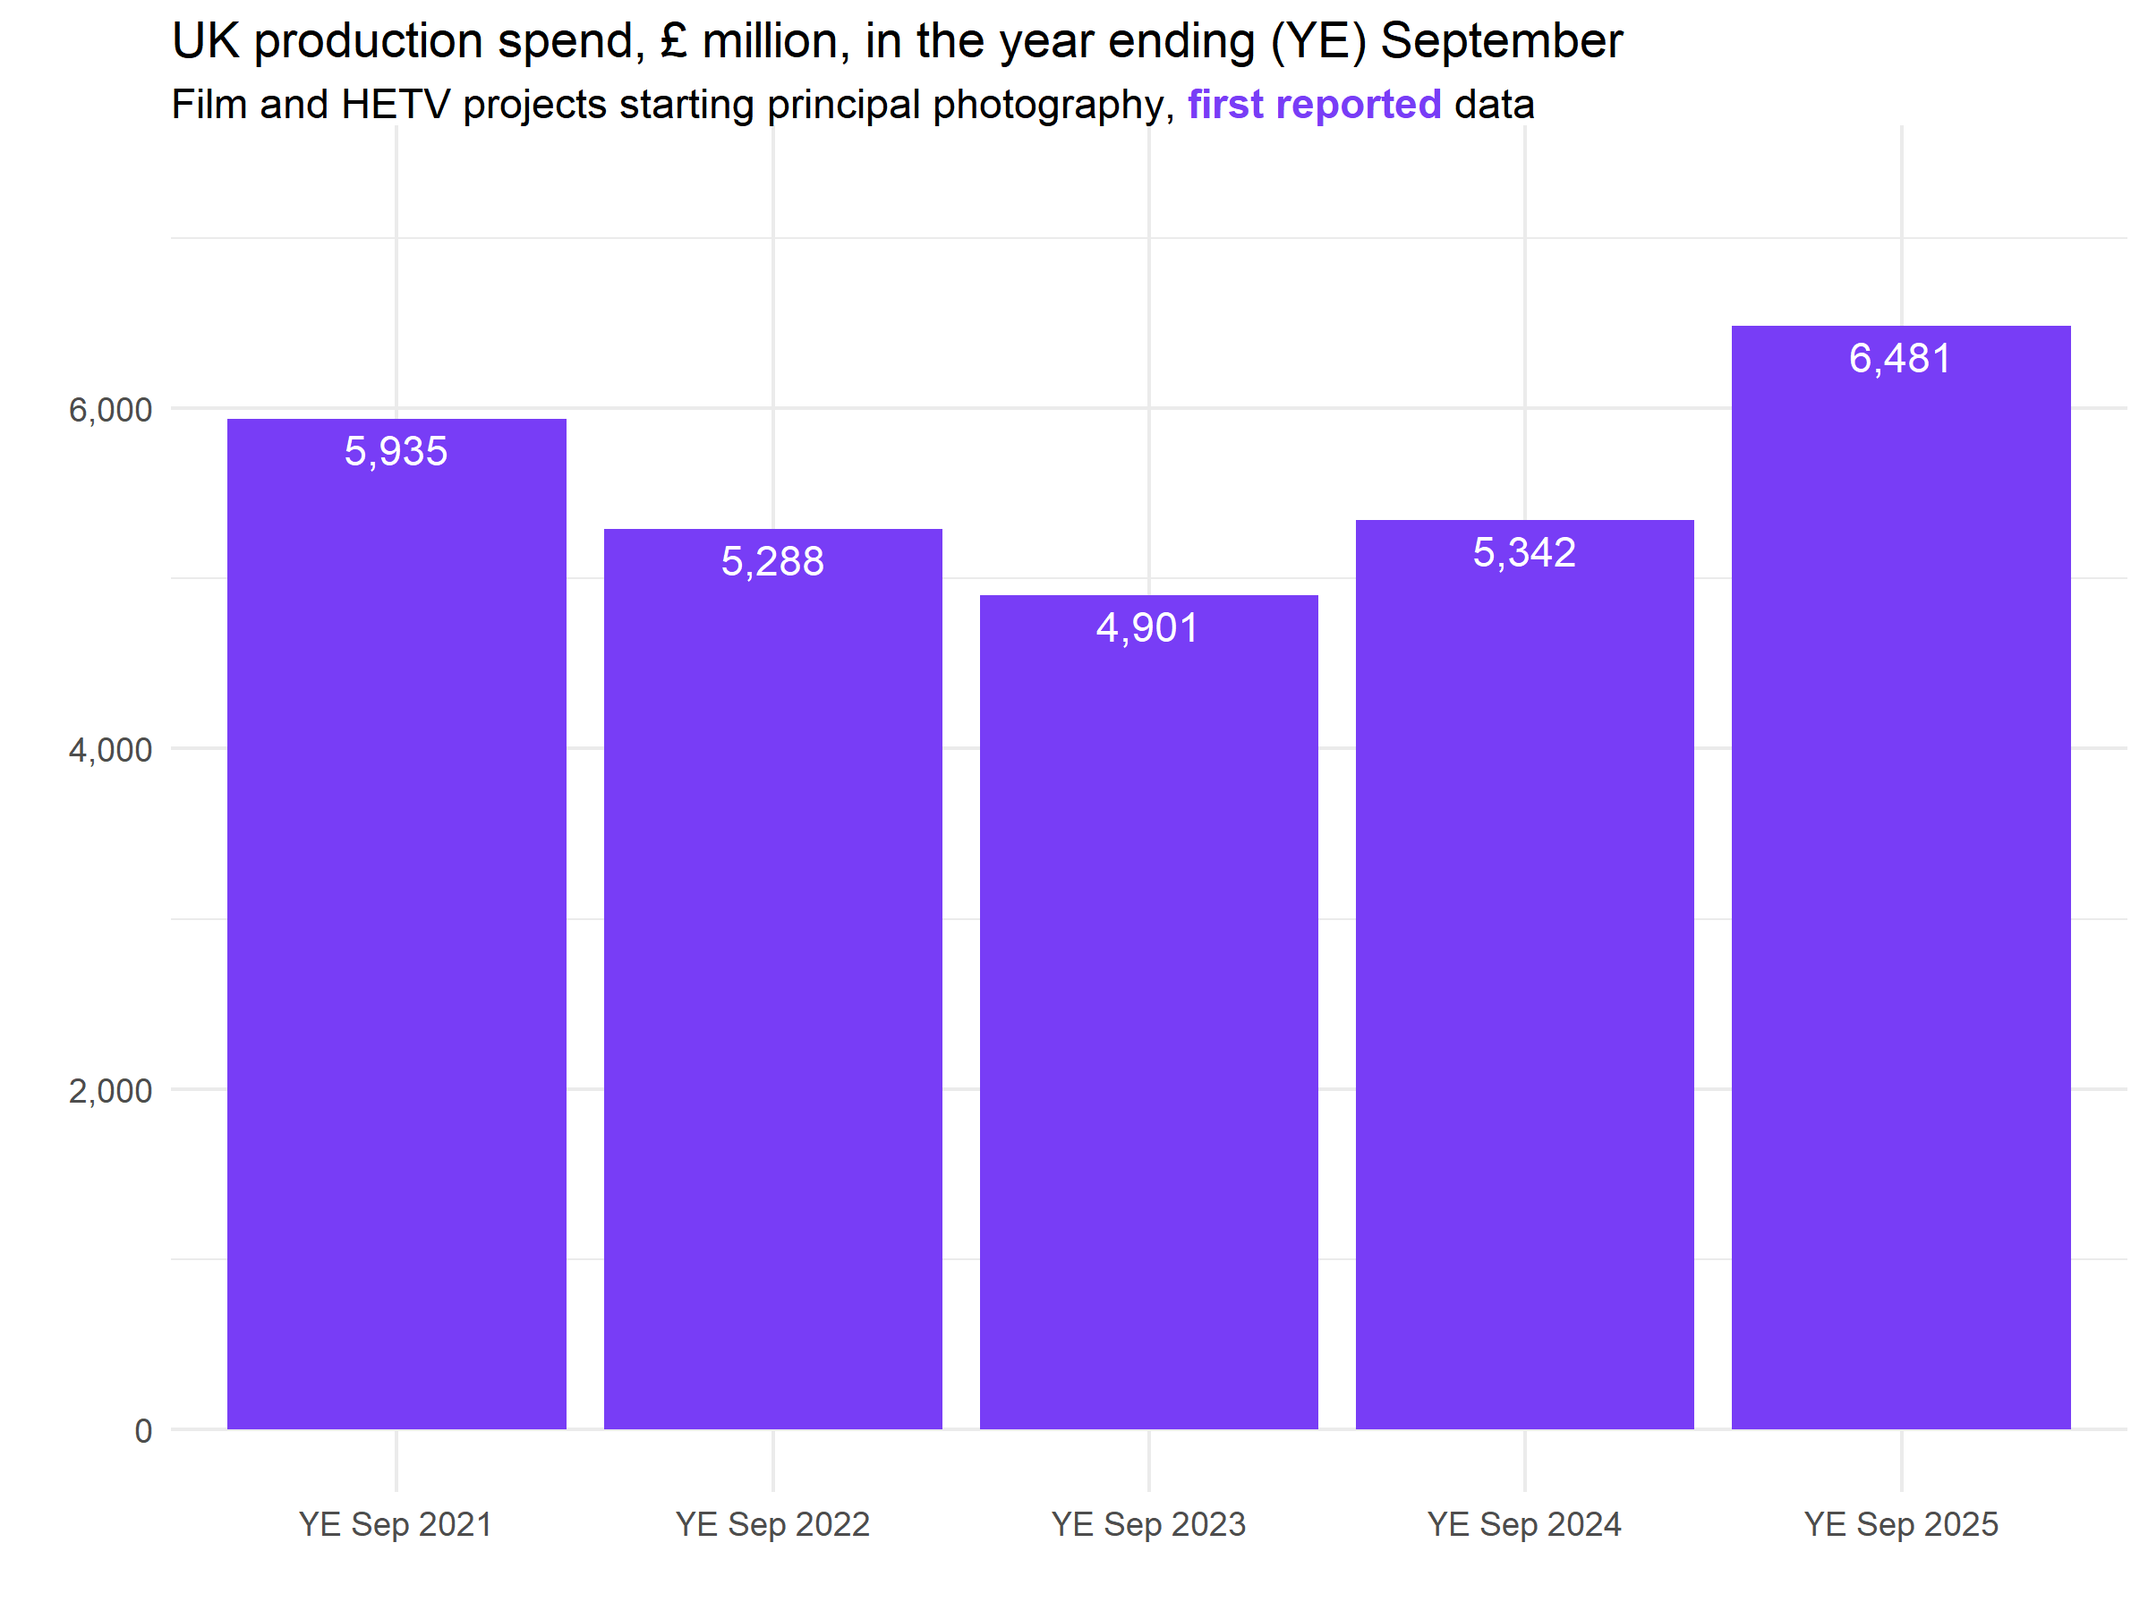
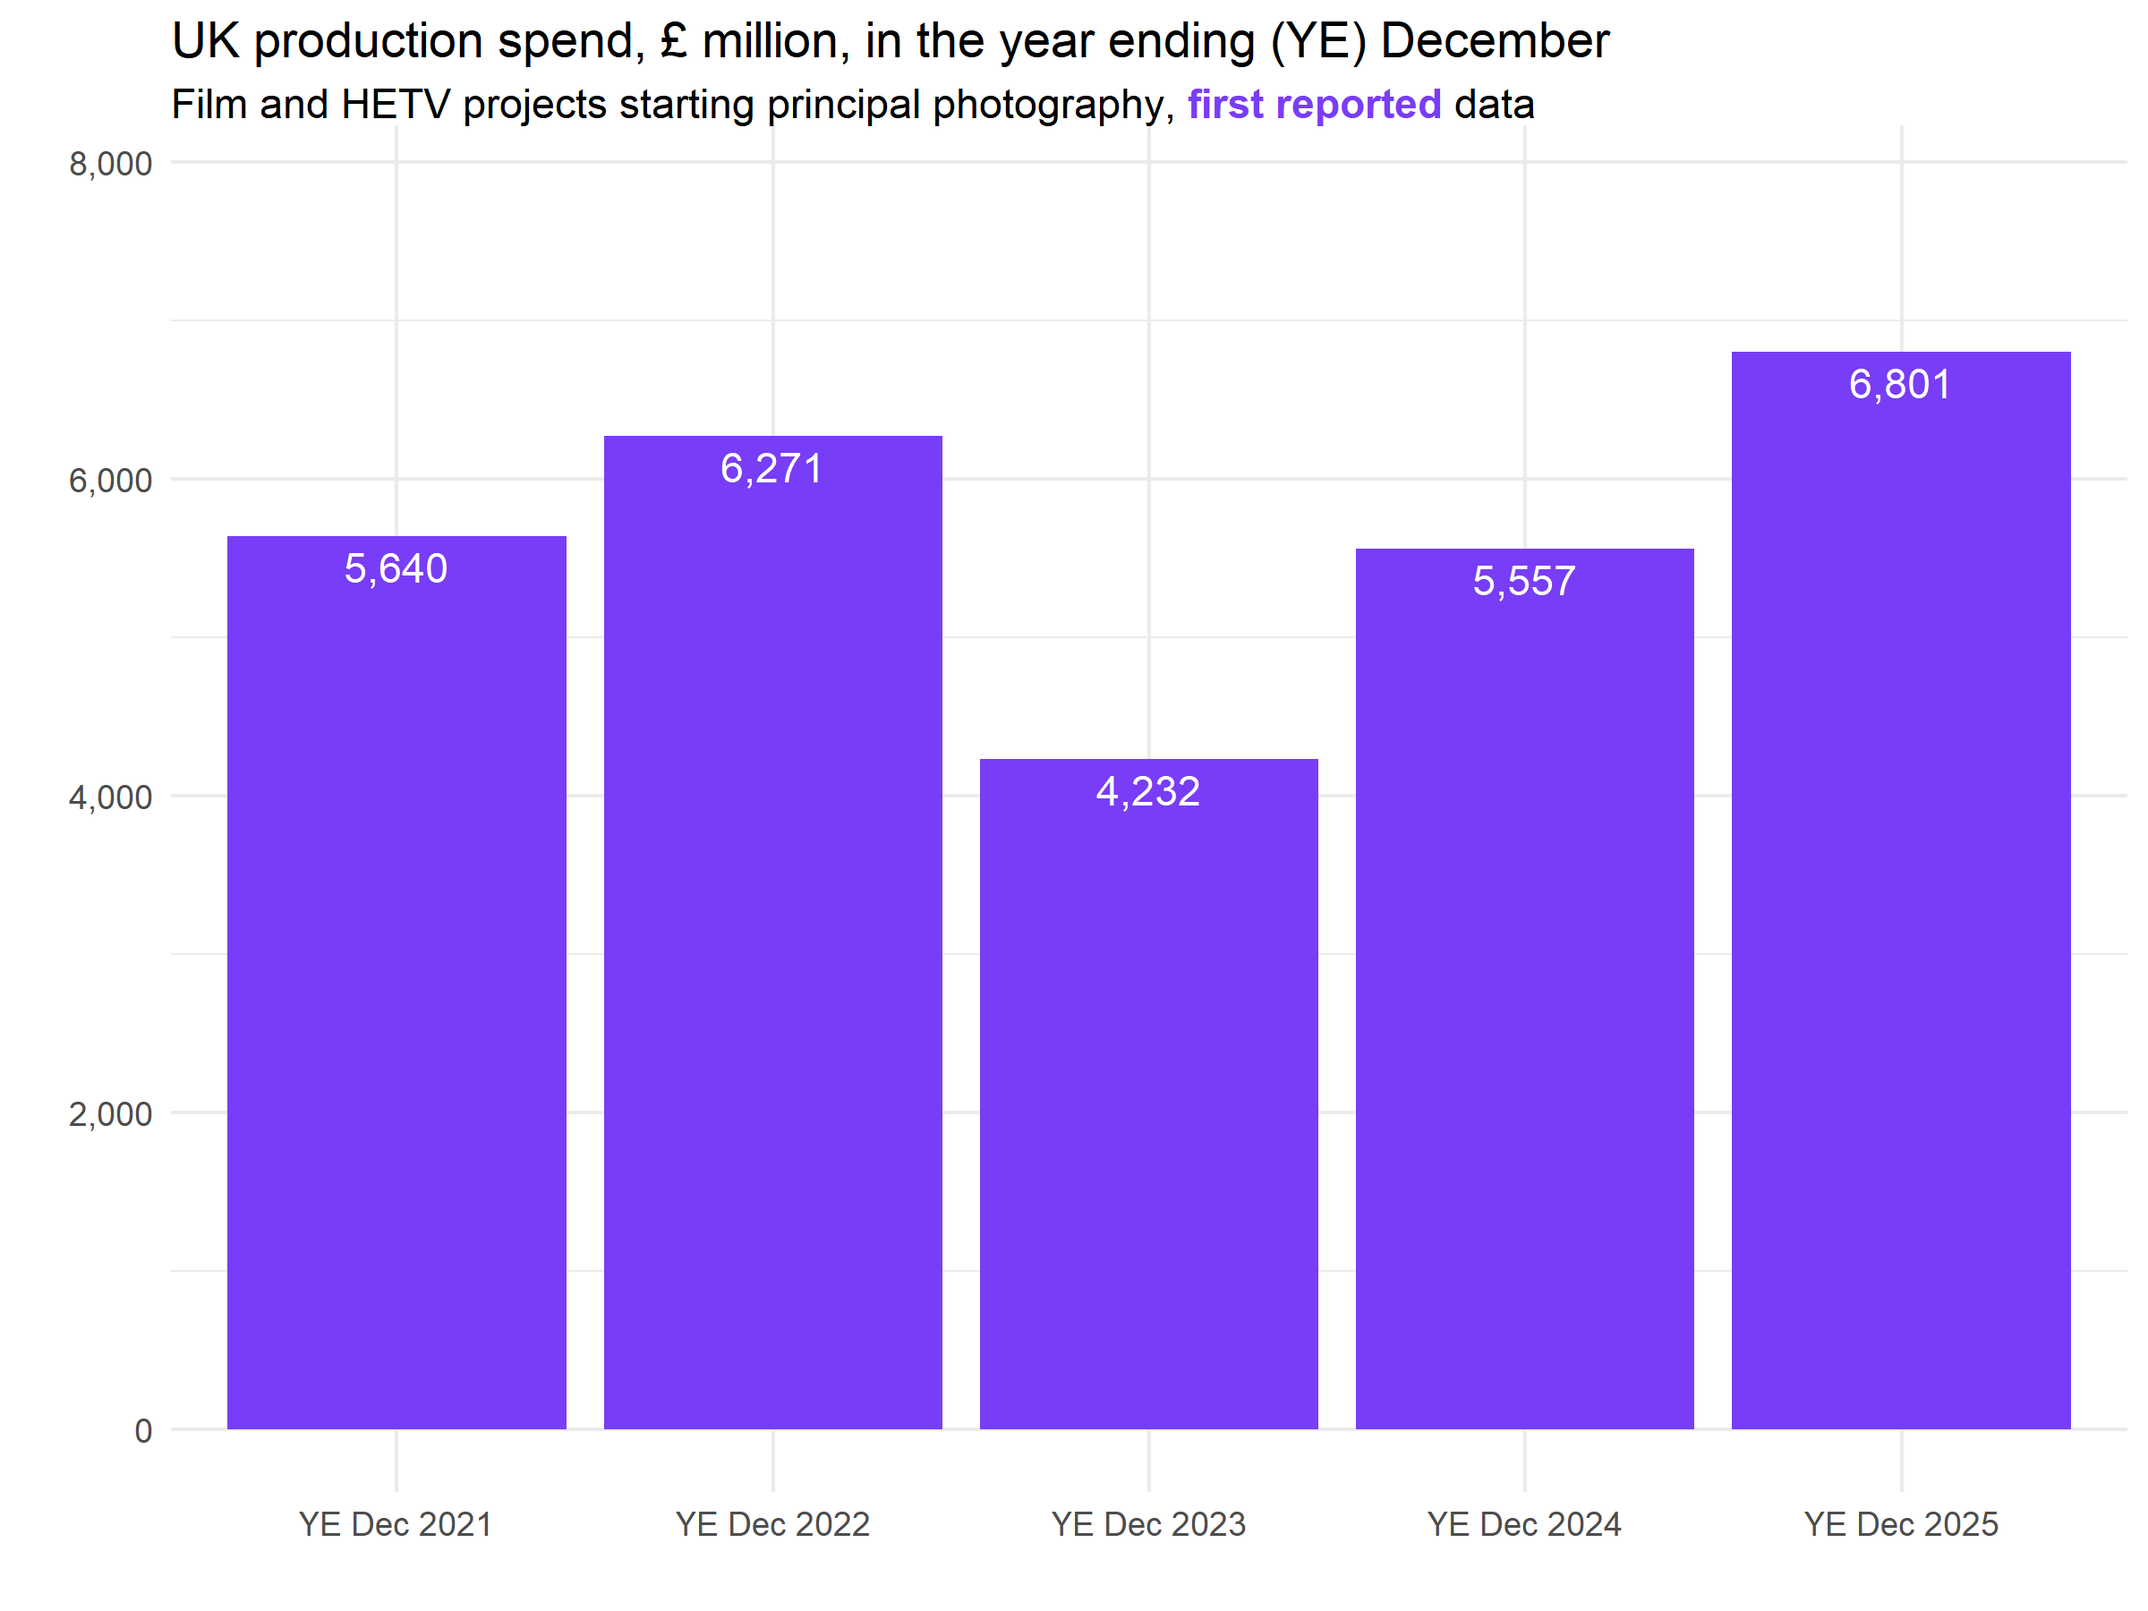
Built site for gh-pages

diff --git a/index.html b/index.html
@@ -11,8 +11,8 @@
   <meta name="generator" content="quarto-1.4.549">
 
   <meta name="author" content="Brian Tarran">
-  <meta name="dcterms.date" content="2025-11-23">
-  <title>BFI statistics summary - BFI screen sector statistics to September 2025</title>
+  <meta name="dcterms.date" content="2026-02-08">
+  <title>BFI statistics summary - BFI screen sector statistics to December 2025</title>
   <meta name="apple-mobile-web-app-capable" content="yes">
   <meta name="apple-mobile-web-app-status-bar-style" content="black-translucent">
   <meta name="viewport" content="width=device-width, initial-scale=1.0, maximum-scale=1.0, user-scalable=no, minimal-ui">
@@ -328,7 +328,7 @@
     <div class="slides">
 
 <section id="title-slide" data-background-color="#e50076" class="quarto-title-block center">
-  <h1 class="title">BFI screen sector statistics to September 2025</h1>
+  <h1 class="title">BFI screen sector statistics to December 2025</h1>
 
 <div class="quarto-title-authors">
 <div class="quarto-title-author">
@@ -338,7 +338,7 @@ Brian Tarran
 </div>
 </div>
 
-  <p class="date">November 23, 2025</p>
+  <p class="date">February 8, 2026</p>
 </section>
 <section>
 <section id="uk-box-office-and-admissions" class="title-slide slide level1 center" data-background-color="#e50076">
@@ -348,9 +348,9 @@ Brian Tarran
 <section id="section" class="slide level2">
 <h2></h2>
 <div id="left">
-<p>In the UK in the period January to September (Q1-3) 2025:</p>
+<p>In the UK in the period January to December (FY) 2025:</p>
 <ul>
-<li>Box office revenue was £751 million, up 10% on Q1-3 2024 and down 18% on Q1-3 2019.</li>
+<li>Box office revenue was £997 million, up 2% on 2024 and down 21% on 2019.</li>
 </ul>
 </div>
 <div id="right">
@@ -369,8 +369,8 @@ Brian Tarran
 <h2></h2>
 <div id="left">
 <ul>
-<li>There were 93 million cinema admissions, 4% higher than in Q1-3 2024 and 28% lower than in Q1-3 2019.</li>
-<li>Figures are for all films on release, including event releases and those that started their release prior to the Q1-3 period.</li>
+<li>There were 124 million cinema admissions, down 2% on 2024 and down 30% on 2019.</li>
+<li>Figures are for all films on release, including event releases and those that started their release prior to the FY period.</li>
 </ul>
 </div>
 <div id="right">
@@ -389,7 +389,7 @@ Brian Tarran
 <h2></h2>
 <div id="left">
 <ul>
-<li>July recorded 2025’s highest monthly admissions to date, at 13 million.</li>
+<li>July recorded 2025’s highest monthly admissions, at 13 million.</li>
 <li><em>Jurassic World Rebirth</em> and <em>Superman</em> were the highest earning releases of that month.</li>
 </ul>
 </div>
@@ -415,7 +415,7 @@ Brian Tarran
 <div id="left">
 <p>At the UK and Republic of Ireland (ROI) box office:</p>
 <ul>
-<li>Revenue for films released in Q1-3 2025 was £684.4 million, up 1% on Q1-3 2024 and down 25% on Q1-3 2019.</li>
+<li>Revenue for films released in FY 2025 was £1.0 billion, unchanged from 2024 and down 21% on 2019.</li>
 <li>This excludes event releases.</li>
 </ul>
 </div>
@@ -435,8 +435,7 @@ Brian Tarran
 <h2></h2>
 <div id="left">
 <ul>
-<li>The total market share of all UK qualifying films was 43%, almost 12 percentage points higher than Q1-3 2024’s UK qualifying share.</li>
-<li><em>Note</em>: 2025 figures in chart sum to 44% due to rounding.</li>
+<li>The total market share of all UK qualifying films was 40.5%, almost 1 percentage point higher than 2024’s UK qualifying share. <!-- * *Note*: 2025 figures in chart sum to 44% due to rounding. --></li>
 </ul>
 </div>
 <div id="right">
@@ -459,9 +458,9 @@ Brian Tarran
 <section id="section-5" class="slide level2">
 <h2></h2>
 <div id="left">
-<p>In the UK, in the 12 months to September 2025:</p>
+<p>In the UK, in the 12 months to December 2025:</p>
 <ul>
-<li>The combined total spend on film and high-end television (HETV) production was £6.5 billion.</li>
+<li>The combined total spend on film and high-end television (HETV) production was £6.8 billion.</li>
 <li>This graph shows the figures that were ‘first reported’ for production spend in each 12-month period.</li>
 </ul>
 </div>
@@ -482,7 +481,7 @@ Brian Tarran
 <div id="left">
 <ul>
 <li>Production data is revised every period to account for lags in obtaining complete data across all types of productions.</li>
-<li>Combined spend for the 12 months to September 2025 was up 14% on revised figures for the previous 12-month period.</li>
+<li>Combined spend for the 12 months to December 2025 was up 13% on revised figures for the previous 12-month period.</li>
 </ul>
 </div>
 <div id="right">
@@ -501,7 +500,7 @@ Brian Tarran
 <h2></h2>
 <div id="left">
 <ul>
-<li>HETV accounted for 64% of UK production spend in the 12 months to September 2025.</li>
+<li>HETV accounted for 59% of UK production spend in the 12 months to December 2025.</li>
 </ul>
 </div>
 <div id="right">
@@ -520,7 +519,7 @@ Brian Tarran
 <h2></h2>
 <div id="left">
 <ul>
-<li>UK spend on film production was £2.3 billion, up 6% compared with revised figures for the 12 months ending September 2024.</li>
+<li>UK spend on film production was £2.8 billion, up 23% compared with revised figures for the 12 months ending December 2024.</li>
 </ul>
 </div>
 <div id="right">
@@ -562,7 +561,7 @@ Brian Tarran
 <h2></h2>
 <div id="left">
 <ul>
-<li>UK spend on HETV projects was £4.2 billion in the 12 months to September 2025, up 19% on revised figures for the previous 12-month period.</li>
+<li>UK spend on HETV projects was £4.0 billion in the 12 months to December 2025, up 7% on revised figures for the previous 12-month period.</li>
 </ul>
 </div>
 <div id="right">
@@ -581,8 +580,7 @@ Brian Tarran
 <h2></h2>
 <div id="left">
 <ul>
-<li>Spend on all categories of production increased compared with revised figures for the 12 months to September 2024.</li>
-<li><em>Note:</em> INW and COP spend is combined for the 12 months to September 2021 for reasons of disclosure control.</li>
+<li>Spend on all categories of production increased compared with revised figures for the 12 months to December 2024. <!-- * *Note:* INW and COP spend is combined for the 12 months to September 2021 for reasons of disclosure control.  --></li>
 </ul>
 </div>
 <div id="right">
@@ -605,9 +603,9 @@ Brian Tarran
 <section id="section-12" class="slide level2">
 <h2></h2>
 <div id="left">
-<p>In the UK, in the 12 months to September 2025:</p>
+<p>In the UK, in the 12 months to December 2025:</p>
 <ul>
-<li>Combined production starts were down 8% on first reported figures for the 12 months to September 2024.</li>
+<li>Combined production starts were down 3% on first reported figures for the 12 months to December 2024.</li>
 </ul>
 </div>
 <div id="right">
@@ -626,7 +624,7 @@ Brian Tarran
 <h2></h2>
 <div id="left">
 <ul>
-<li>Production count for the 12 months to September 2025 is lower than for the other periods shown here. However, as previously noted, figures are likely to be revised upward in subsequent statistical releases as more data becomes available.</li>
+<li>Production count for the 12 months to December 2025 is lower than for the other periods shown here. However, as previously noted, figures are likely to be revised upward in subsequent statistical releases as more data becomes available.</li>
 </ul>
 </div>
 <div id="right">
@@ -645,7 +643,7 @@ Brian Tarran
 <h2></h2>
 <div id="left">
 <ul>
-<li>We saw earlier that HETV accounted for the majority of UK production spend in the 12 months to September 2025. In terms of number of productions, however, the split is almost even: 49% for film, 51% for HETV.</li>
+<li>We saw earlier that HETV accounted for the majority of UK production spend in the 12 months to December 2025. In terms of number of productions, however, film accounted for the majority: 53%.</li>
 </ul>
 </div>
 <div id="right">
@@ -664,7 +662,7 @@ Brian Tarran
 <h2></h2>
 <div id="left">
 <ul>
-<li>167 films were recorded as starting principal photography in the UK in the 12 months to September 2025.</li>
+<li>193 films were recorded as starting principal photography in the UK in the 12 months to December 2025.</li>
 </ul>
 </div>
 <div id="right">
@@ -702,7 +700,7 @@ Brian Tarran
 <h2></h2>
 <div id="left">
 <ul>
-<li>171 HETV programmes were recorded as starting principal photography in the UK in the 12 months to September 2025.</li>
+<li>168 HETV programmes were recorded as starting principal photography in the UK in the 12 months to December 2025.</li>
 </ul>
 </div>
 <div id="right">
@@ -721,8 +719,7 @@ Brian Tarran
 <h2></h2>
 <div id="left">
 <ul>
-<li>HETV programme starts in the 12 months to September 2025 included 19 feature-length single episode productions.</li>
-<li><em>Note:</em> INW and COP counts are combined for the 12 months to September 2021 for reasons of disclosure control.</li>
+<li>HETV programme starts in the 12 months to September 2025 included 14 feature-length single episode productions. <!-- * *Note:* INW and COP counts are combined for the 12 months to September 2021 for reasons of disclosure control.   --></li>
 </ul>
 </div>
 <div id="right">
@@ -745,9 +742,9 @@ Brian Tarran
 <section id="section-19" class="slide level2">
 <h2></h2>
 <div id="left">
-<p>In the 12 months to September 2025:</p>
+<p>In the 12 months to December 2025:</p>
 <ul>
-<li>A total of 585 films received final certification, either under the cultural test or as an official co-production.</li>
+<li>A total of 613 films received final certification, either under the cultural test or as an official co-production.</li>
 <li>Certification is required to access UK tax reliefs and credits for audiovisual and video game expenditure.</li>
 </ul>
 </div>
@@ -767,7 +764,7 @@ Brian Tarran
 <h2></h2>
 <div id="left">
 <ul>
-<li>Films achieving final certification in the 12 months to September 2025 had an associated UK production spend of £1.9 billion.</li>
+<li>Films achieving final certification in the 12 months to December 2025 had an associated UK production spend of £2.4 billion.</li>
 <li>Films and other productions can apply for final certification when they have completed production and are ready to be released.</li>
 </ul>
 </div>
@@ -787,7 +784,7 @@ Brian Tarran
 <h2></h2>
 <div id="left">
 <ul>
-<li>281 HETV titles received final certification through the cultural test in the 12 months to September 2025.</li>
+<li>248 HETV titles received final certification through the cultural test in the 12 months to December 2025.</li>
 <li>There were two co-productions with final certification but details are not included for disclosure control reasons.</li>
 </ul>
 </div>
@@ -807,7 +804,7 @@ Brian Tarran
 <h2></h2>
 <div id="left">
 <ul>
-<li>HETV productions receiving final certification under the cultural test in the 12 months to September 2025 had a UK production spend of £4.7 billion.</li>
+<li>HETV productions receiving final certification under the cultural test in the 12 months to December 2025 had a UK production spend of £4.3 billion.</li>
 </ul>
 </div>
 <div id="right">
@@ -826,7 +823,7 @@ Brian Tarran
 <h2></h2>
 <div id="left">
 <ul>
-<li>72 animation television programmes received final certification under the cultural test in the 12 months to September 2025.</li>
+<li>74 animation television programmes received final certification under the cultural test in the 12 months to December 2025.</li>
 <li>There were two co-productions with final certification but details are not included for disclosure control reasons.</li>
 </ul>
 </div>
@@ -846,7 +843,7 @@ Brian Tarran
 <h2></h2>
 <div id="left">
 <ul>
-<li>Animation TV productions receiving final certification under the cultural test in the 12 months to September 2025 had a UK production spend of £196 million.</li>
+<li>Animation TV productions receiving final certification under the cultural test in the 12 months to December 2025 had a UK production spend of £201 million.</li>
 </ul>
 </div>
 <div id="right">
@@ -865,7 +862,7 @@ Brian Tarran
 <h2></h2>
 <div id="left">
 <ul>
-<li>101 children’s television programmes received final certification under the cultural test in the 12 months to September 2025.</li>
+<li>86 children’s television programmes received final certification under the cultural test in the 12 months to December 2025.</li>
 <li>There were two co-productions with final certification but details are not included for disclosure control reasons.</li>
 </ul>
 </div>
@@ -885,7 +882,7 @@ Brian Tarran
 <h2></h2>
 <div id="left">
 <ul>
-<li>Children’s TV productions receiving final certification under the cultural test in the 12 months to September 2025 had a UK production spend of £134 million.</li>
+<li>Children’s TV productions receiving final certification under the cultural test in the 12 months to December 2025 had a UK production spend of £199 million.</li>
 </ul>
 </div>
 <div id="right">
@@ -904,7 +901,7 @@ Brian Tarran
 <h2></h2>
 <div id="left">
 <ul>
-<li>256 video games received final certification in the 12 months to September 2025.</li>
+<li>273 video games received final certification in the 12 months to December 2025.</li>
 <li>Video games can only be certified under the cultural test.</li>
 </ul>
 </div>
@@ -924,8 +921,8 @@ Brian Tarran
 <h2></h2>
 <div id="left">
 <ul>
-<li>Video games receiving final certification in the 12 months to September 2025 had a UK production spend of £736 million.</li>
-<li>This is the second highest UK spend figure on record.</li>
+<li>Video games receiving final certification in the 12 months to December 2025 had a UK production spend of £618 million.</li>
+<li>This is the third highest UK spend figure on record.</li>
 </ul>
 </div>
 <div id="right">
